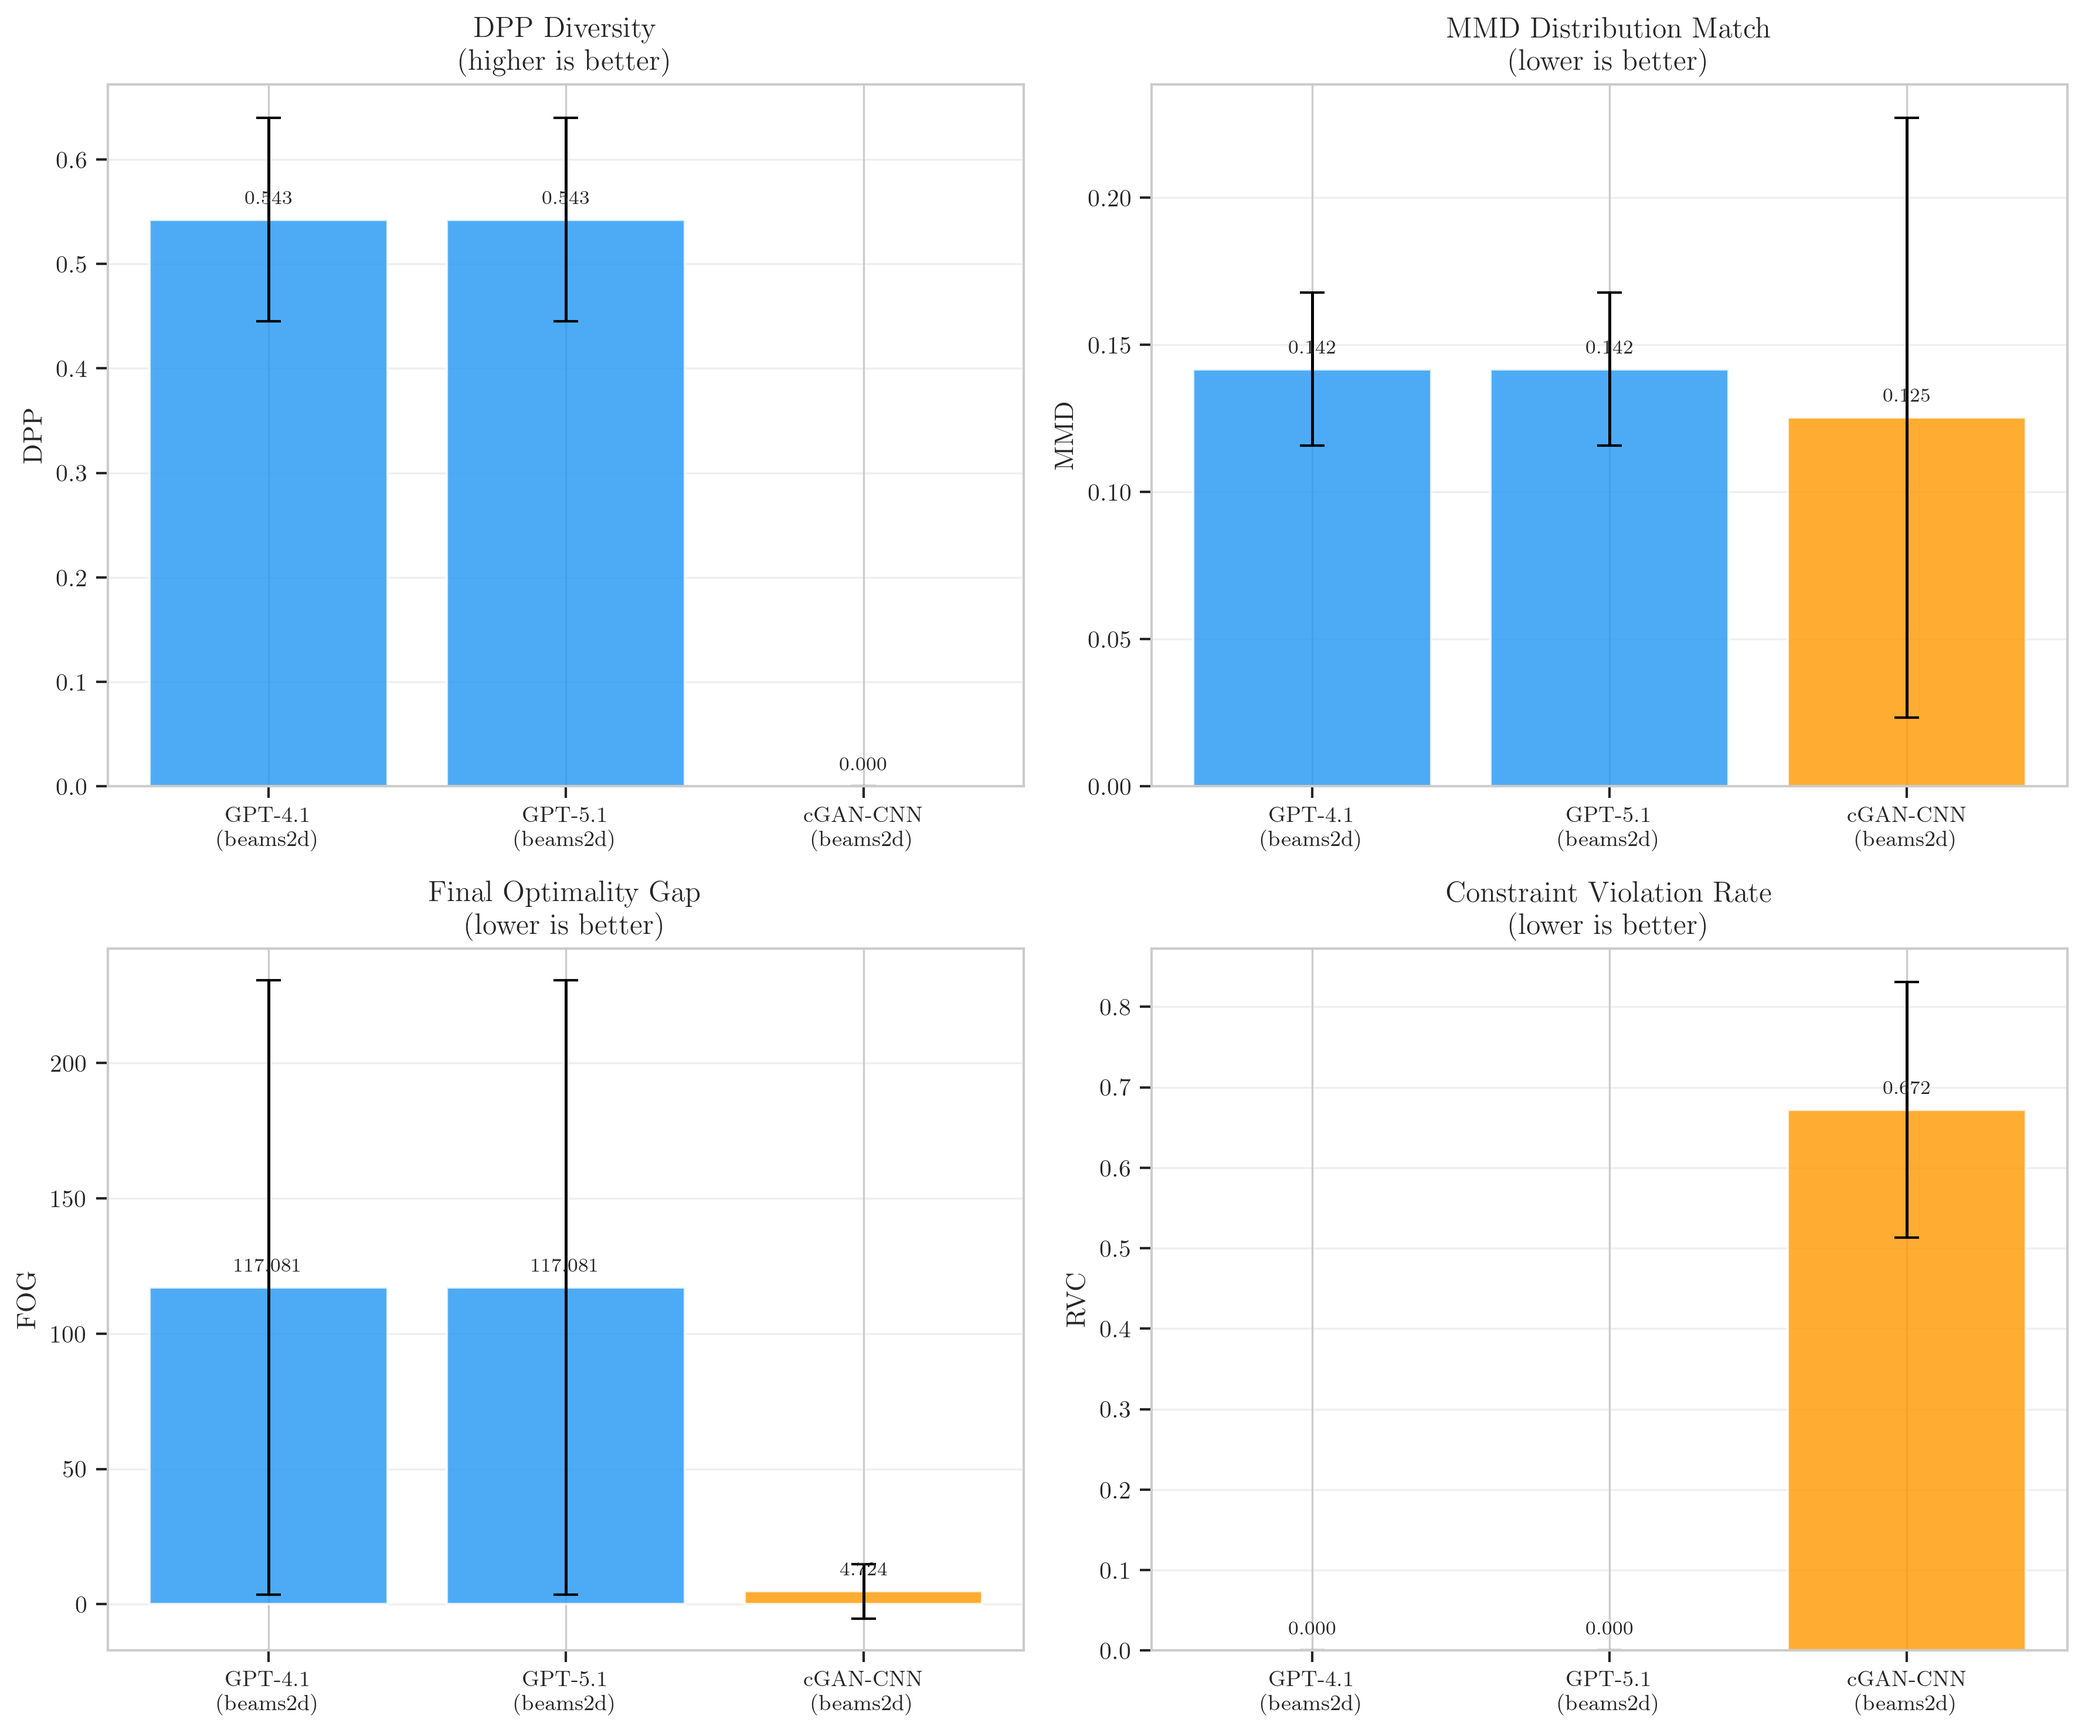
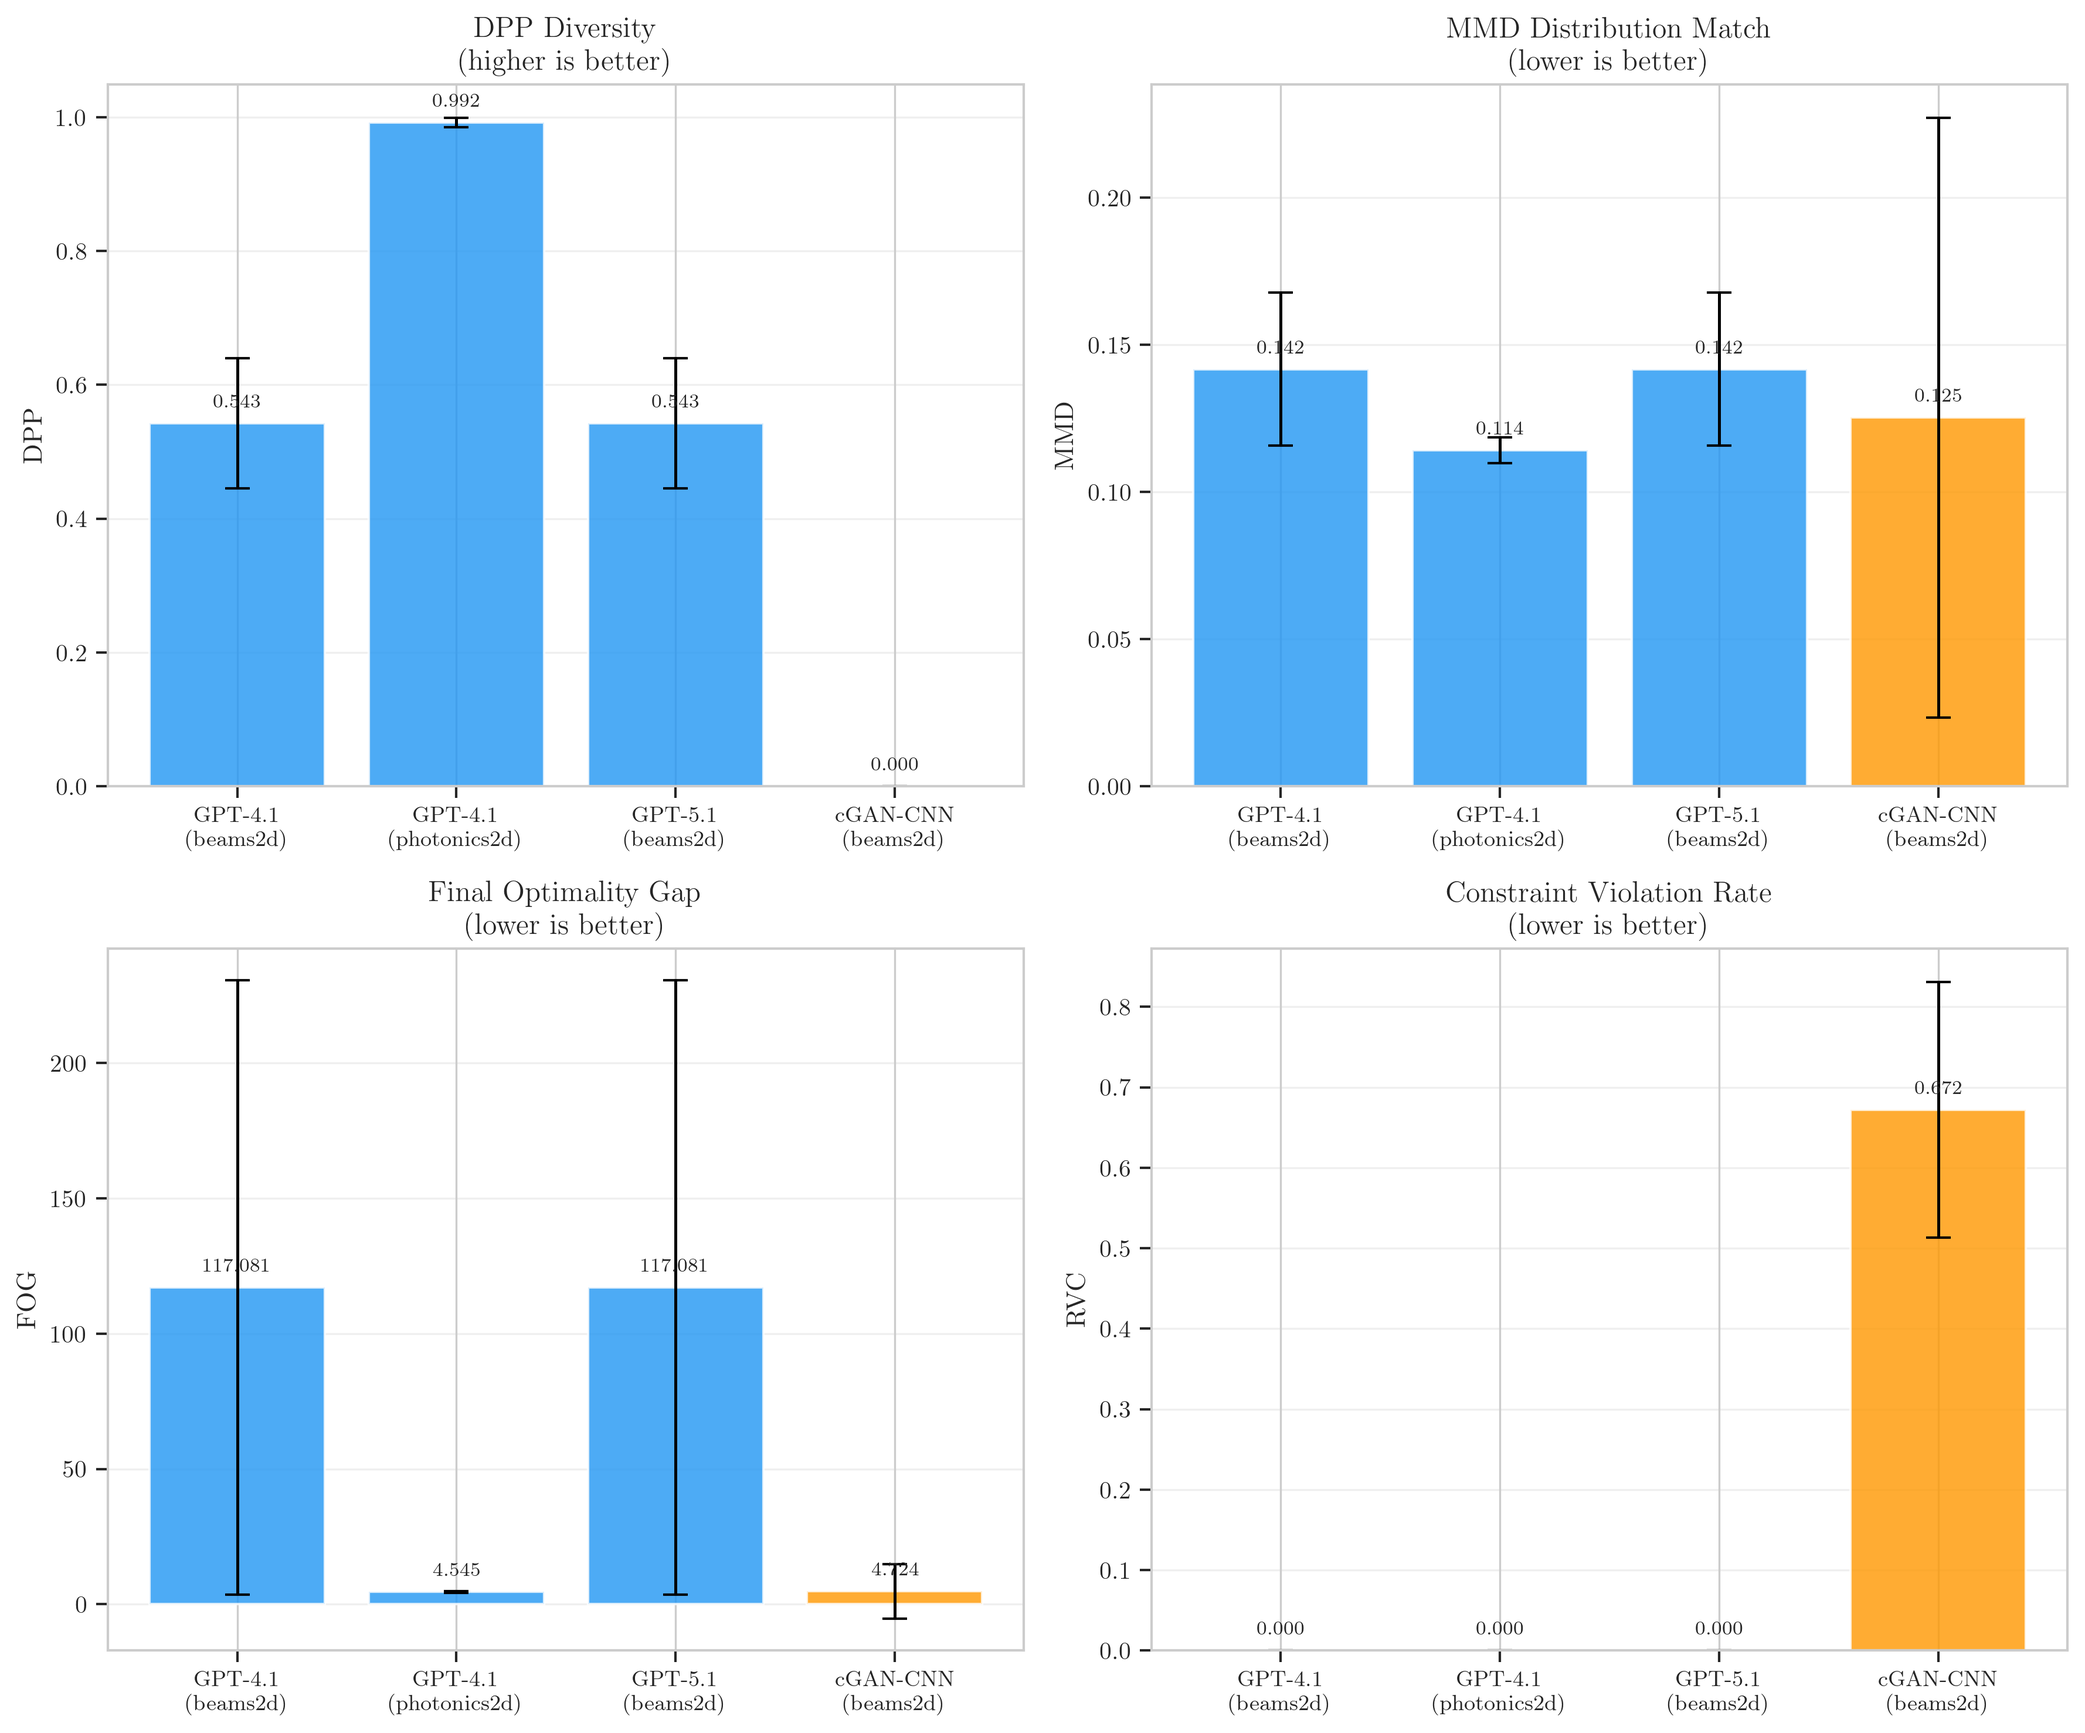
New figures including photonics

diff --git a/benchmarks/evaluations/plots/figures/summary_statistics.tex b/benchmarks/evaluations/plots/figures/summary_statistics.tex
@@ -6,6 +6,7 @@
 Model & Problem & N & DPP & MMD & FOG & RVC \\
 \midrule
 GPT-4.1 & beams2d & 10 & 0.5425 ± 0.0975 & 0.1418 ± 0.0259 & 117.0812 ± 113.5176 & 0.0000 ± 0.0000 \\
+GPT-4.1 & photonics2d & 10 & 0.9920 ± 0.0071 & 0.1142 ± 0.0043 & 4.5447 ± 0.3374 & 0.0000 ± 0.0000 \\
 GPT-5.1 & beams2d & 10 & 0.5425 ± 0.0975 & 0.1418 ± 0.0259 & 117.0812 ± 113.5176 & 0.0000 ± 0.0000 \\
 cGAN-CNN & beams2d & 10 & 0.0000 ± 0.0000 & 0.1252 ± 0.1019 & 4.7241 ± 10.0531 & 0.6720 ± 0.1589 \\
 \bottomrule
